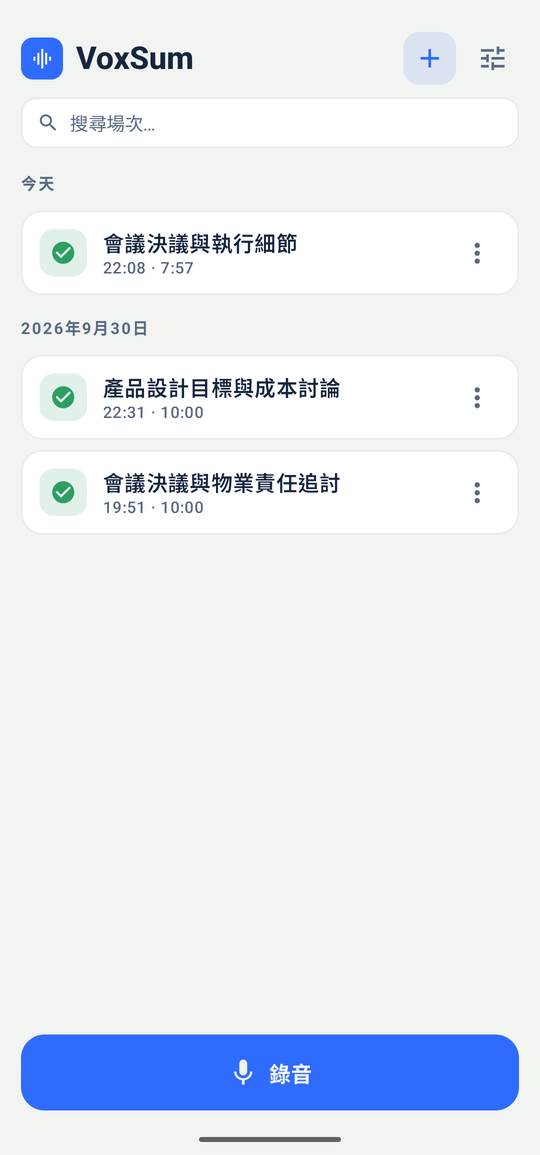
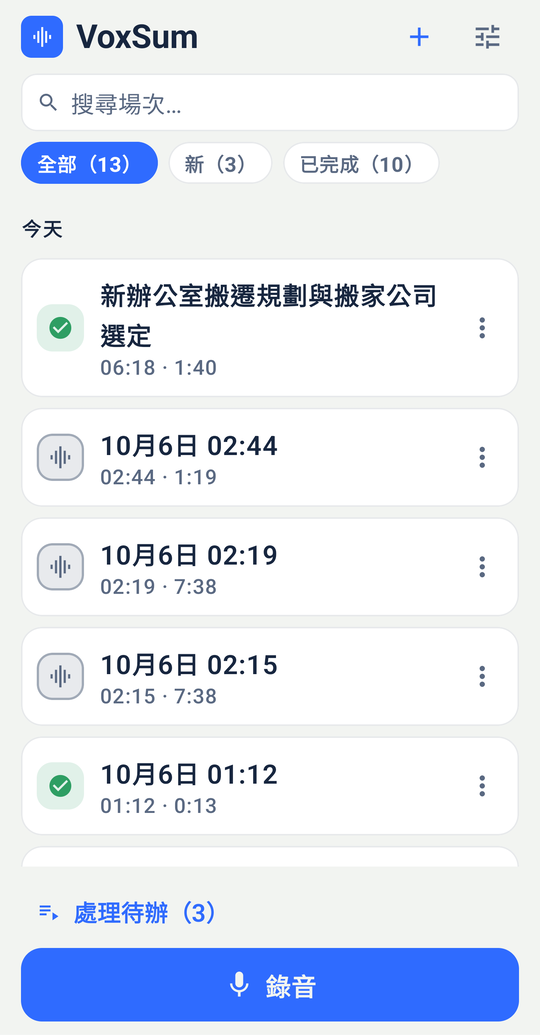
v0.49.0: guide re-shot on the Note10+ (light, zh-TW), Resume documented
Claude-Session: https://claude.ai/code/session_01KsCgNEd7UM8Bv5a1a9GKev

diff --git a/docs/USER_GUIDE.md b/docs/USER_GUIDE.md
@@ -67,12 +67,17 @@ flowchart TD
 | 節點 | 何時出現 | 預期結果 | 驗證 |
 |---|---|---|---|
 | 開啟 | 已完成 | 開啟場次 | ✅ 手動 |
-| 重新命名 | 一律 | 對話框輸入新標題，確定後列上標題更新 | ✅ 手動 |
+| 重新命名 | 一律 | 對話框輸入新標題，確定後列上標題更新（新場次的預設標題為日期時間，如「10月6日 00:11」，摘要完成後換成 AI 擬的標題） | ✅ 手動 |
 | 分享音訊 | 一律 | 系統分享面板，附 `.m4a` | ✅ 手動 |
 | 刪除 | 一律 | 確認對話框「確定要永久刪除「…」嗎？」；取消不刪 | ✅ 手動 |
+| 繼續處理 | 處理被中斷（停止、App 被終止）且已留有進度 | 從已存的最後穩定段落接續語音辨識，語者編號與先前一致；已完成的部分不重做 | ✅ 手動 |
 | 立即處理 | 未處理，或已排入佇列且沒有正在處理的項目 | 開始轉錄與摘要；在「停止」之後也能再次開始 | ✅ 手動 |
 | 從佇列移除 | 已排入佇列、尚未處理 | 移出佇列，保留錄音（列變為「新」） | ✅ 手動 |
 | 正在處理的場次 | 該列沒有 ⋮；點一下開啟即時畫面 | 即時畫面頂端的「停止」停止處理，該列回到「排入佇列」，稍後自動繼續 | ✅ 手動 |
+
+處理中按下「停止」，或 App 被終止後，已轉錄的穩定段落與 AI 筆記會存下來。下次開啟時會詢問 **繼續中斷的場次？**，也可隨時從 ⋮ 選 **繼續處理**。匯入檔案時只能接續到已解碼的音訊為止（停止當下尚未解碼的部分不會保留）。
+
+<img src="guide/29-resume-prompt.png" width="270" alt="繼續中斷的場次"> <img src="guide/30-resume-menu.png" width="270" alt="繼續處理">
 
 ## 3. 多選模式
 
